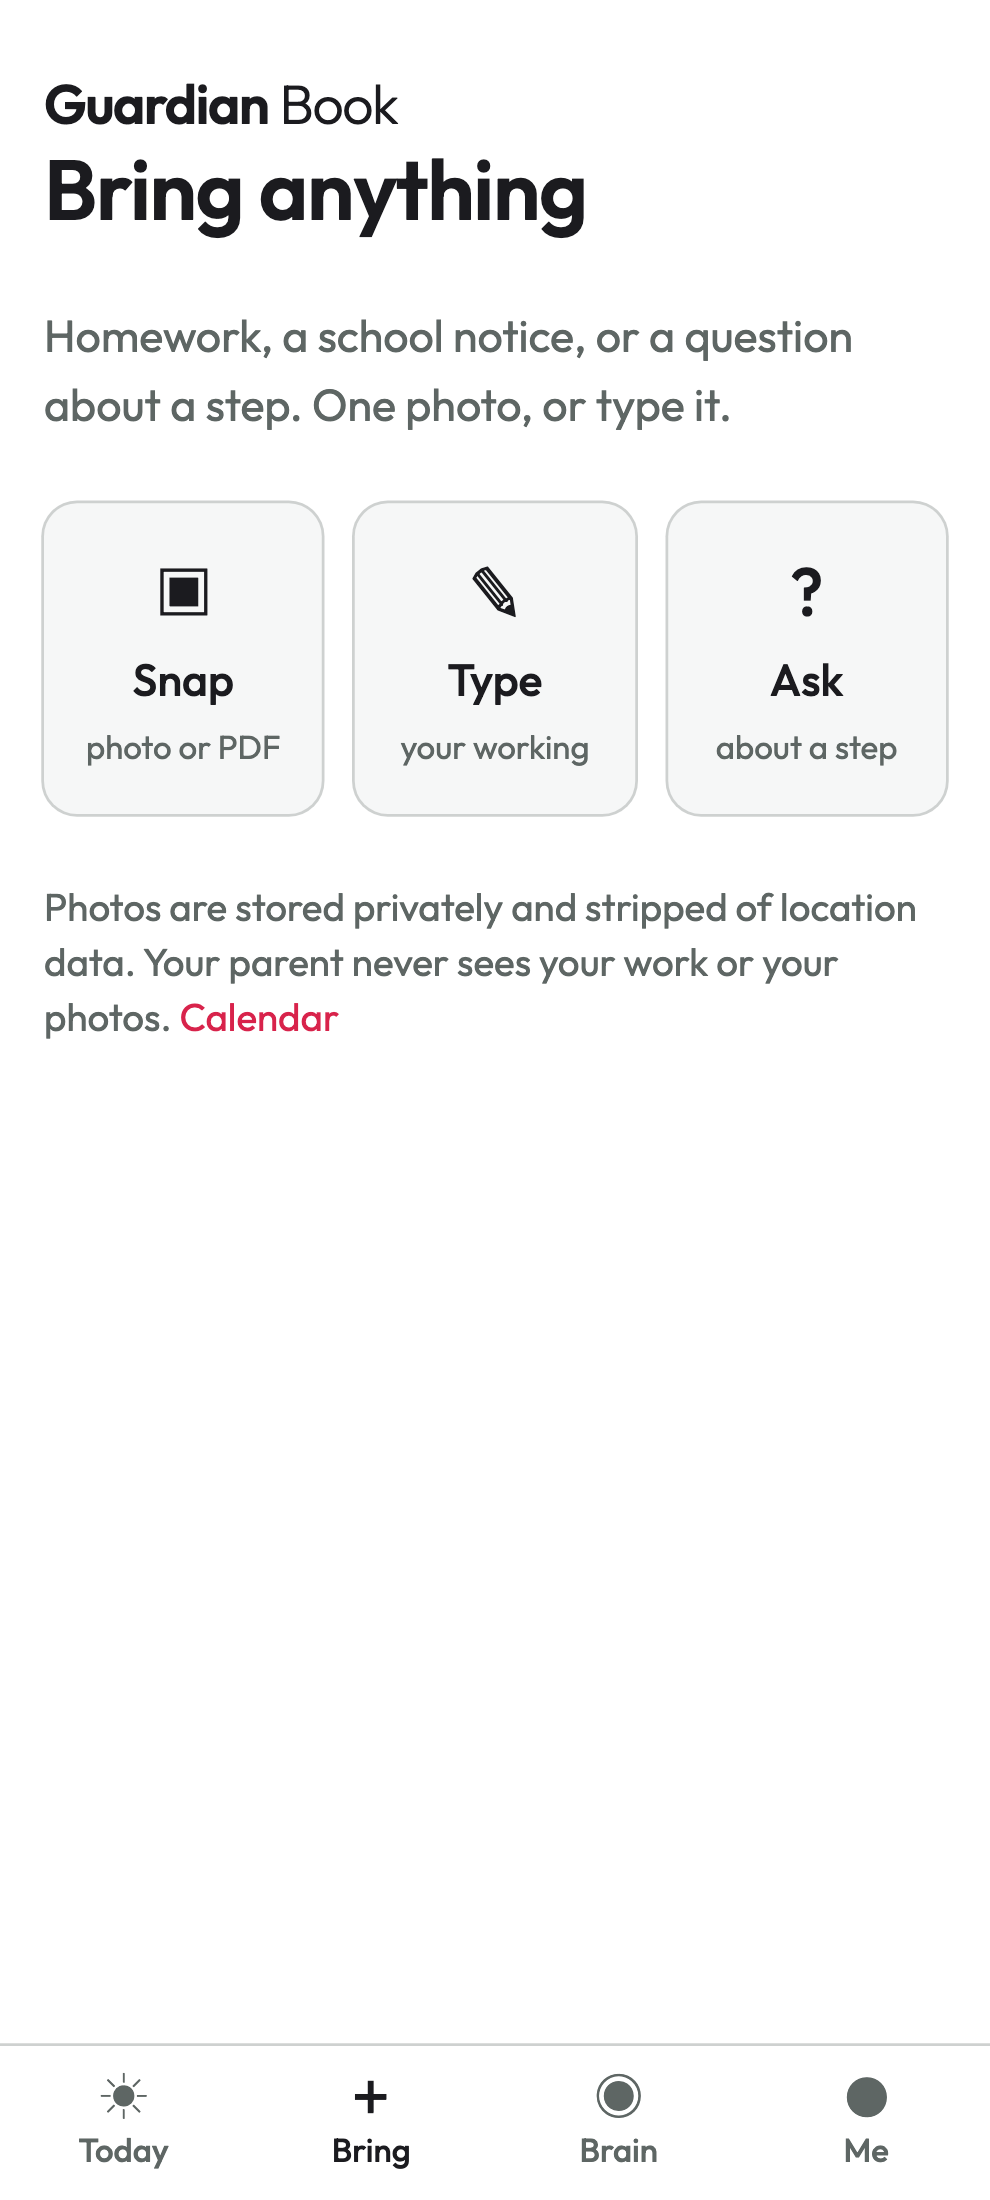
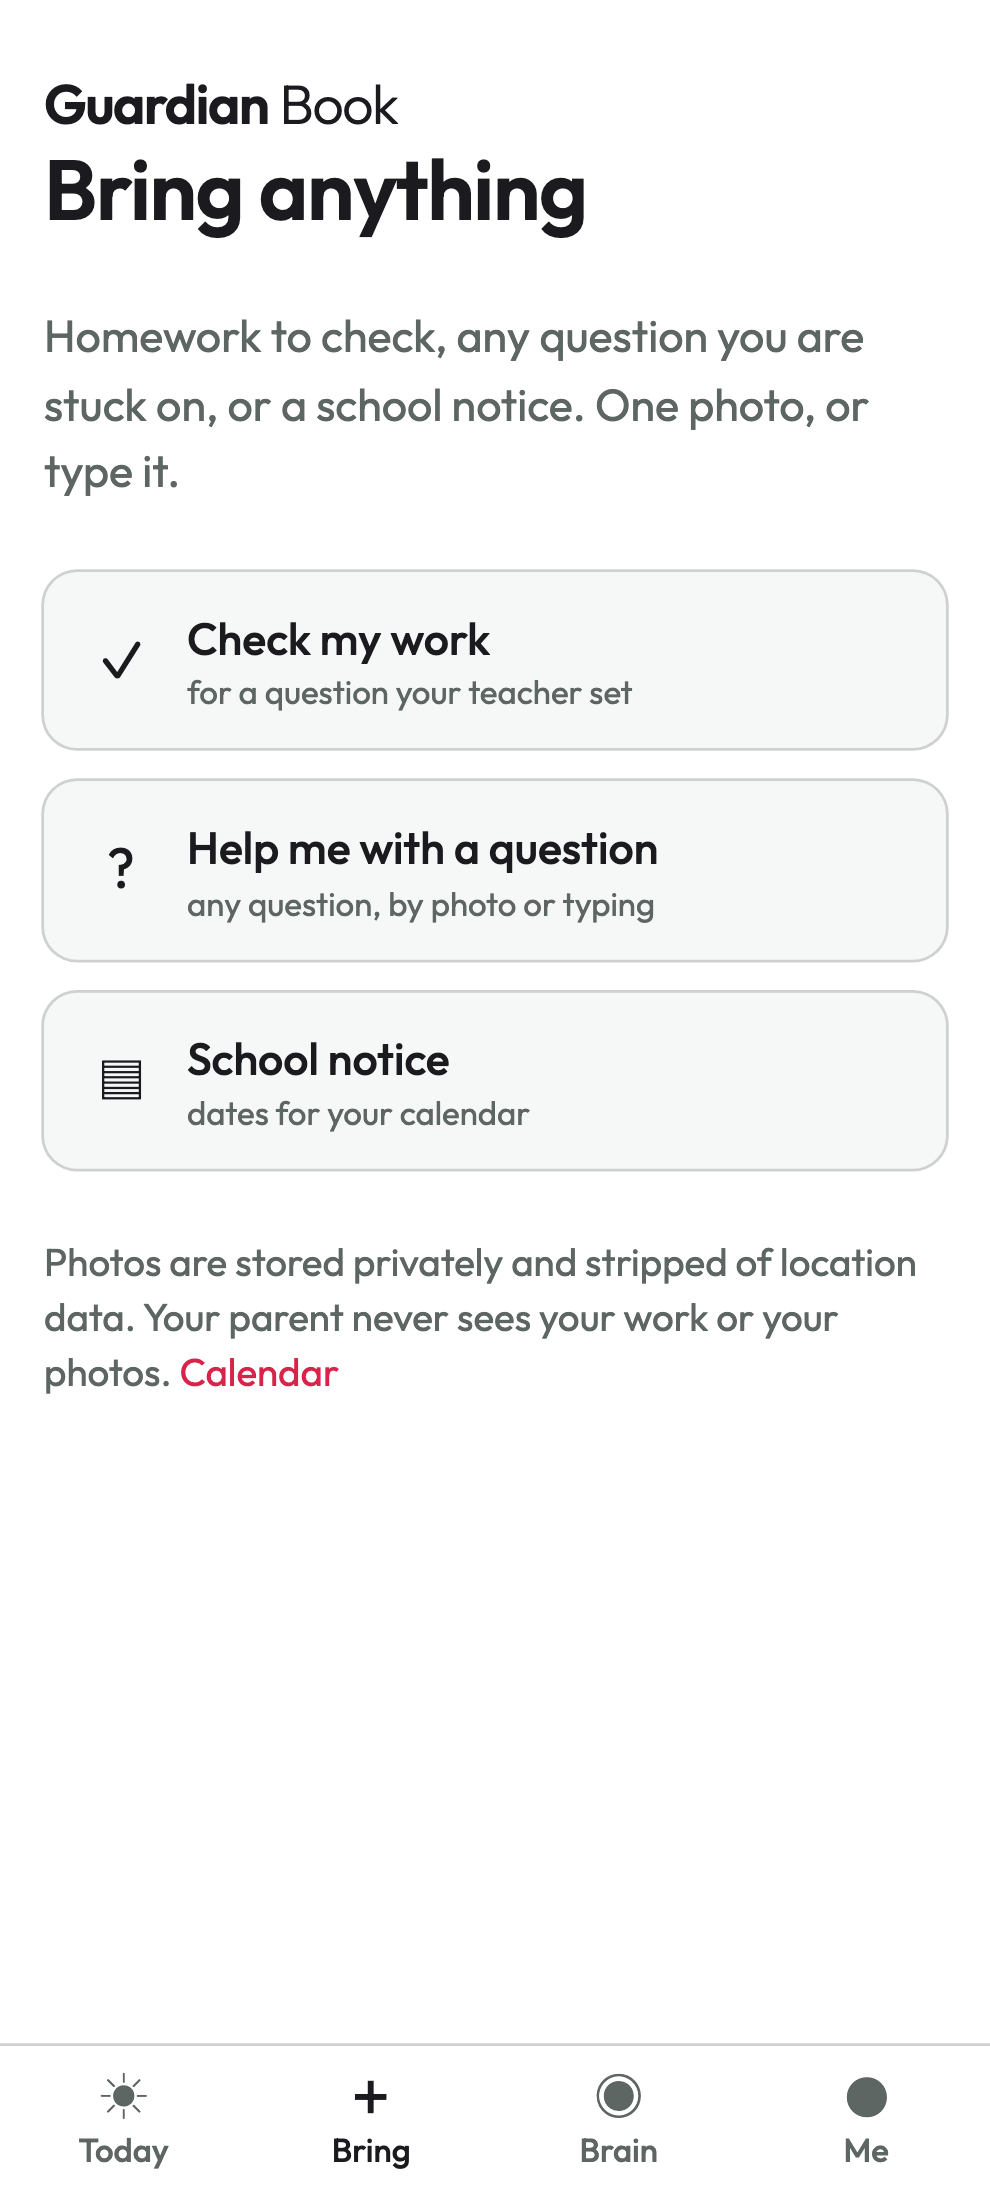
E2E: the guide at 390; Bring's first tap in the other specs

diff --git a/apps/web/e2e/guide.spec.ts b/apps/web/e2e/guide.spec.ts
@@ -1,0 +1,137 @@
+import { fileURLToPath } from 'node:url'
+import { expect, test, type Page } from '@playwright/test'
+
+/**
+ * Help me with a question (brief B15 §6) at 390×844 with the mocked model: a photo of a
+ * question → read back → step through → the answer last; a typed `\( … \)` question
+ * renders as maths through the keypad box; the answer is hidden until the last step.
+ */
+
+const PASSWORD = 'integration-only-password' // the e2e server's seed password; never a real secret
+/** B11's handwriting fixture stands in for a photo of a question: the scripted model reads any photo back as the seed quadratic. */
+const PHOTO = fileURLToPath(new URL('./fixtures/script.png', import.meta.url))
+
+async function noOverflow(page: Page) {
+  const overflow = await page.evaluate(() => document.documentElement.scrollWidth - document.documentElement.clientWidth)
+  expect(overflow).toBeLessThanOrEqual(0)
+}
+
+async function signIn(page: Page, email: string) {
+  await page.context().clearCookies()
+  await page.goto('/signin')
+  await page.getByLabel('Email').fill(email)
+  await page.getByLabel('Password').fill(PASSWORD)
+  await page.getByRole('button', { name: 'Sign in' }).click()
+  await expect(page).toHaveURL(/\/today$/)
+}
+
+test('a photo of a question: read back, one step at a time, the answer last', async ({ page }) => {
+  const cspViolations: string[] = []
+  page.on('console', (msg) => {
+    if (msg.type() === 'error' && msg.text().includes('Content Security Policy')) cspViolations.push(msg.text().slice(0, 160))
+  })
+  await signIn(page, 'lerato@demo.guardianbook.test')
+
+  // L2: three plain choices; Help me with a question, then Snap.
+  await page.goto('/bring')
+  await expect(page.getByRole('heading', { name: 'Bring anything' })).toBeVisible()
+  await expect(page.getByRole('button', { name: /Check my work/ })).toBeVisible()
+  await expect(page.getByRole('button', { name: /School notice/ })).toBeVisible()
+  await page.getByRole('button', { name: /Help me with a question/ }).click()
+  await expect(page.getByText('The answer comes last. Nothing is marked.')).toBeVisible()
+  await noOverflow(page)
+  await page.screenshot({ path: 'docs/screenshots/b15-bring-390.png', fullPage: true, animations: 'disabled' })
+  await page.locator('input[type="file"]').setInputFiles(PHOTO)
+
+  // L9: reading, then the read-back as maths, labelled practice, never marked.
+  await expect(page).toHaveURL(/\/guide\/[0-9a-f-]{36}$/)
+  await expect(page.getByRole('heading', { name: 'Is this your question?' })).toBeVisible({ timeout: 20_000 })
+  await expect(page.getByText('AI-guided practice · not marked by your teacher')).toBeVisible()
+  await expect(page.locator('.katex').first()).toBeVisible()
+  await expect(page.getByRole('link', { name: 'Check my own working' })).toBeVisible() // the photo matched the bank item
+  await expect(page.getByRole('button', { name: 'Edit' })).toBeVisible()
+
+  // Step 1 is current, 2 and 3 are locked, the answer is nowhere.
+  const steps = page.getByRole('region', { name: 'Steps' })
+  await expect(steps.getByRole('heading', { name: 'Step 1' })).toBeVisible()
+  await expect(steps.getByText('Unlocks after step 1.')).toBeVisible()
+  await expect(steps.getByText('Unlocks after step 2.')).toBeVisible()
+  await expect(page.getByRole('heading', { name: 'The answer' })).toHaveCount(0)
+  await expect(page.getByText('$x = 2$ or $x = 3$')).toHaveCount(0)
+  await expect(page.getByText('Worked')).toHaveCount(0)
+
+  // Try it yourself has the keypad; a key writes maths and the preview renders it.
+  const tryBox = page.getByLabel('Try it yourself (optional)')
+  await tryBox.fill('x = ')
+  await page.getByRole('toolbar', { name: 'Maths keys' }).getByRole('button', { name: 'Fraction' }).first().click()
+  await expect(tryBox).toHaveValue('x = $\\frac{}{}$')
+  await expect(page.getByText('Preview')).toBeVisible()
+  await noOverflow(page)
+
+  // Hint, then Show this step: the worked line appears and step 2 unlocks.
+  await page.getByRole('button', { name: 'Hint' }).click()
+  await expect(steps.getByText('Check that the right-hand side is already')).toBeVisible()
+  await page.getByRole('button', { name: 'Show this step' }).click()
+  await expect(steps.getByText('Worked').first()).toBeVisible()
+  await expect(steps.getByRole('heading', { name: 'Step 2' })).toBeVisible()
+  await expect(steps.getByText('Unlocks after step 1.')).toHaveCount(0)
+  await expect(page.getByRole('heading', { name: 'The answer' })).toHaveCount(0)
+  await noOverflow(page)
+  await page.screenshot({ path: 'docs/screenshots/b15-guide-390.png', fullPage: true, animations: 'disabled' })
+
+  // "Show the answer" asks first; keep going hides it again.
+  await page.getByRole('button', { name: 'Show the answer' }).click()
+  await expect(page.getByText('Try the steps first?')).toBeVisible()
+  await page.getByRole('button', { name: 'Keep going' }).click()
+  await expect(page.getByRole('heading', { name: 'The answer' })).toHaveCount(0)
+
+  // Through the last step: the answer appears on its own.
+  await page.getByRole('button', { name: 'Show this step' }).click()
+  await expect(steps.getByRole('heading', { name: 'Step 3' })).toBeVisible()
+  await page.getByRole('button', { name: 'Show the last step' }).click()
+  await expect(page.getByRole('heading', { name: 'The answer' })).toBeVisible()
+  await expect(page.getByRole('heading', { name: 'The answer' }).locator('..').locator('.katex').first()).toBeVisible()
+  await expect(page.getByText('Checked by two separate reads that agreed.')).toBeVisible()
+  expect(cspViolations).toEqual([])
+  await noOverflow(page)
+  await page.screenshot({ path: 'docs/screenshots/b15-guide-answer-390.png', fullPage: true, animations: 'disabled' })
+
+  // Check my own working lands on Bring with the question preselected.
+  await page.getByRole('link', { name: 'Check my own working' }).click()
+  await expect(page).toHaveURL(/\/bring\?item=/)
+  await expect(page.getByRole('heading', { name: 'Check my own working' })).toBeVisible()
+  await expect(page.getByRole('button', { name: /Type/ })).toBeVisible()
+})
+
+test('a typed \\( … \\) question renders as maths; Edit re-reads once', async ({ page }) => {
+  await signIn(page, 'thabo@demo.guardianbook.test')
+  await page.goto('/bring')
+  await page.getByRole('button', { name: /Help me with a question/ }).click()
+  await page.getByRole('button', { name: /Type/ }).click()
+  const box = page.getByLabel('Your question')
+  await box.fill('Find two rational numbers between \\(\\frac{1}{4}\\) and \\(\\frac{7}{8}\\).')
+  await page.getByRole('button', { name: 'Read my question' }).click()
+
+  await expect(page).toHaveURL(/\/guide\/[0-9a-f-]{36}$/)
+  await expect(page.getByRole('heading', { name: 'Is this your question?' })).toBeVisible({ timeout: 20_000 })
+  const readBack = page.getByRole('heading', { name: 'Is this your question?' }).locator('..')
+  await expect(readBack.locator('.katex').first()).toBeVisible()
+  await expect(readBack).not.toContainText('\\(')
+  // KaTeX keeps the TeX source in its MathML annotation for screen readers; what is painted is the typeset maths.
+  await expect(readBack.locator('.katex-html').first()).toBeVisible()
+  await expect(page.getByRole('link', { name: 'Check my own working' })).toHaveCount(0) // not a bank question
+  await noOverflow(page)
+
+  // Edit: the keypad box, prefilled; Read it again lands on a new guide that cannot be edited again.
+  await page.getByRole('button', { name: 'Edit' }).click()
+  const correction = page.getByLabel('Correct the question')
+  await expect(correction).toHaveValue('Find two rational numbers between $\\frac{1}{4}$ and $\\frac{7}{8}$.')
+  await correction.fill('Find three rational numbers between $\\frac{1}{4}$ and $\\frac{7}{8}$.')
+  const firstUrl = page.url()
+  await page.getByRole('button', { name: 'Read it again' }).click()
+  await expect(page).not.toHaveURL(firstUrl)
+  await expect(page.getByRole('heading', { name: 'Is this your question?' })).toBeVisible({ timeout: 20_000 })
+  await expect(page.getByText('read again from your correction')).toBeVisible()
+  await expect(page.getByRole('button', { name: 'Edit' })).toHaveCount(0)
+  await noOverflow(page)
+})

diff --git a/apps/web/e2e/ask-by-voice.spec.ts b/apps/web/e2e/ask-by-voice.spec.ts
@@ -33,6 +33,7 @@ test('Lerato asks about the step that slipped: by voice, then by typing; the hin
 
   // Bring typed work (B04) and lose the last step.
   await page.goto('/bring')
+  await page.getByRole('button', { name: /Check my work/ }).click() // B15: the three plain choices
   await page.getByRole('button', { name: /Type/ }).click()
   await page.getByLabel('Your working, line by line').fill('x² − 5x + 6 = 0\n(x − 2)(x − 3) = 0')
   await page.getByRole('button', { name: 'Use this' }).click()
@@ -81,6 +82,7 @@ test('check it alone: asking is paused until the learner submits', async ({ page
   await expect(page).toHaveURL(/\/today$/)
   // Reach L5 in independent mode: bring work, lose a step, fix it, then Check it alone.
   await page.goto('/bring')
+  await page.getByRole('button', { name: /Check my work/ }).click() // B15: the three plain choices
   await page.getByRole('button', { name: /Type/ }).click()
   await page.getByLabel('Your working, line by line').fill('x² − 5x + 6 = 0\n(x − 2)(x − 3) = 0')
   await page.getByRole('button', { name: 'Use this' }).click()

diff --git a/apps/web/e2e/red-ink.spec.ts b/apps/web/e2e/red-ink.spec.ts
@@ -39,6 +39,7 @@ test('a learner’s photo gets red ink; after the teacher corrects and releases 
   // L2: snap the photo (the hidden file input behind "Snap"), pick the question, check.
   await page.goto('/bring')
   await expect(page.getByRole('heading', { name: 'Bring anything' })).toBeVisible()
+  await page.getByRole('button', { name: /Check my work/ }).click() // B15: the three plain choices
   await page.locator('input[type="file"]').setInputFiles(FIXTURE)
   const picker = page.getByRole('group', { name: 'Which question is this?' })
   await expect(picker).toBeVisible({ timeout: 20_000 })

diff --git a/apps/web/e2e/bring-feedback.spec.ts b/apps/web/e2e/bring-feedback.spec.ts
@@ -22,6 +22,7 @@ test('a learner brings typed working and gets step-level feedback', async ({ pag
 
   await page.goto('/bring')
   await expect(page.getByRole('heading', { name: 'Bring anything' })).toBeVisible()
+  await page.getByRole('button', { name: /Check my work/ }).click() // B15: the three plain choices
   await page.getByRole('button', { name: /Type/ }).click()
   await page.getByLabel('Your working, line by line').fill('x² − 5x + 6 = 0\n(x − 2)(x − 3) = 0\nx − 2 = 0 or x − 3 = 0')
   await page.getByRole('button', { name: 'Use this' }).click()

diff --git a/apps/web/e2e/guardian-language.spec.ts b/apps/web/e2e/guardian-language.spec.ts
@@ -29,6 +29,7 @@ test('the parent picks isiZulu; This week shows the AI label, Show English works
   await signIn(page, 'lerato@demo.guardianbook.test')
   await expect(page).toHaveURL(/\/today$/)
   await page.goto('/bring')
+  await page.getByRole('button', { name: /Check my work/ }).click() // B15: the three plain choices
   await page.getByRole('button', { name: /Type/ }).click()
   await page.getByLabel('Your working, line by line').fill('x² − 5x + 6 = 0\n(x − 2)(x − 3) = 0')
   await page.getByRole('button', { name: 'Use this' }).click()

diff --git a/apps/web/e2e/screens.spec.ts b/apps/web/e2e/screens.spec.ts
@@ -28,6 +28,7 @@ test('Bring and Calendar fit a 360 px phone', async ({ page }) => {
   await expect(page.getByRole('heading', { name: 'Bring anything' })).toBeVisible()
   await noOverflow(page)
   await page.screenshot({ path: 'docs/screenshots/b04-bring-360.png', fullPage: true, animations: 'disabled' })
+  await page.getByRole('button', { name: /Check my work/ }).click() // B15: the three plain choices
   await page.getByRole('button', { name: /Type/ }).click()
   await noOverflow(page)
   await page.goto('/calendar')

diff --git a/apps/web/e2e/loop.spec.ts b/apps/web/e2e/loop.spec.ts
@@ -27,6 +27,7 @@ test('feedback → fix it → check it alone → the guardian taps We did it', a
 
   // Bring typed work (B04), lose the last step.
   await page.goto('/bring')
+  await page.getByRole('button', { name: /Check my work/ }).click() // B15: the three plain choices
   await page.getByRole('button', { name: /Type/ }).click()
   await page.getByLabel('Your working, line by line').fill('x² − 5x + 6 = 0\n(x − 2)(x − 3) = 0')
   await page.getByRole('button', { name: 'Use this' }).click()
